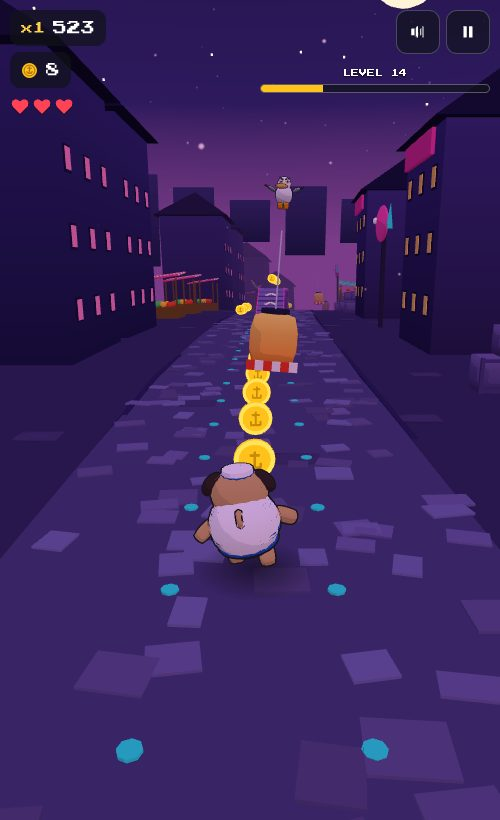
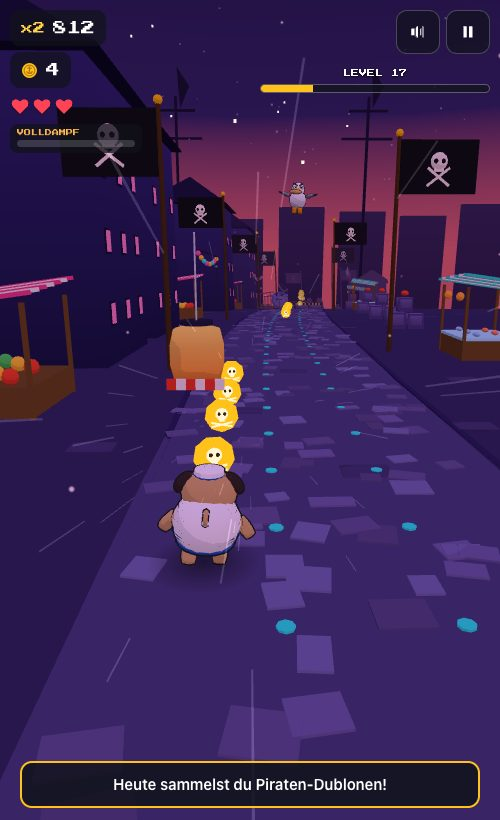
Hafenflitzer: neue Bilder und neuer Text für Szenen und Volldampf

diff --git a/index.html b/index.html
@@ -544,18 +544,18 @@ const SPIELE = [
 
   {
     titel: 'HAFENFLITZER',
-    beschreibung: 'Möwe Gisela hat dein Fischbrötchen geklaut! Renn ihr in echtem 3D hinterher: Weich rollenden Steinkugeln aus, spring über Kisten, rutsch unter Wimpelleinen durch und flieg kurz in der Flug-Badewanne. Jede verrückte Figur springt anders, und neue schaltest du frei, je weiter du kommst.',
-    merkmale: ['3D', '30 Level', '5 Welten', '11 Figuren', '11 Sprünge', 'Dauerlauf', 'Werkstatt', 'Aufträge', '3 Schwierigkeiten', 'Freunde-Rangliste', 'Retro-Sounds'],
+    beschreibung: 'Möwe Gisela hat dein Fischbrötchen geklaut! Renn ihr in echtem 3D hinterher: Vom Hafen über die Palmeninsel bis aufs Piratenschiff: Jedes Level hat seine eigene Stimmung und eigene Schätze zum Sammeln. Weich rollenden Steinkugeln aus, füll die Volldampf-Leiste und zerleg alles, was dir im Weg steht. Jede verrückte Figur springt anders.',
+    merkmale: ['3D', '30 Level', '5 Welten', '11 Figuren', '11 Sprünge', 'Volldampf', 'Dauerlauf', 'Werkstatt', 'Aufträge', '3 Schwierigkeiten', 'Freunde-Rangliste', 'Retro-Sounds'],
     steuerung: 'Handy: nach links, rechts, oben oder unten wischen. Computer: Pfeiltasten oder W, A, S, D, P für Pause, M für Ton.',
     spielen: 'https://moje9328.github.io/hafenflitzer/',
     download: 'https://moje9328.github.io/hafenflitzer/index.html',
     dateiname: 'hafenflitzer.html',
     bilder: [
-      { datei: 'bilder/hafenflitzer-hafen.jpg', text: 'Hafenflitzer: Hein Fiete rennt im Morgenhafen auf die Rampe eines Steinpodests zu' },
-      { datei: 'bilder/hafenflitzer-strand.jpg', text: 'Hafenflitzer: Oma Hilde auf der bunten Strandpromenade, eine große Steinkugel rollt auf sie zu' },
-      { datei: 'bilder/hafenflitzer-markt.jpg', text: 'Hafenflitzer: Rollmops Rudi nachts auf dem Fischmarkt, vor ihm schwingt eine Laterne' },
-      { datei: 'bilder/hafenflitzer-sturm.jpg', text: 'Hafenflitzer: Krabbe Kalle auf dem Sturmschiff, eine Welle rollt über das Deck auf sie zu' },
-      { datei: 'bilder/hafenflitzer-mond.jpg', text: 'Hafenflitzer: Käpt\'n Blorp im Mondhafen, rote Ringe warnen vor Meteoriten' }
+      { datei: 'bilder/hafenflitzer-hafen.jpg', text: 'Hafenflitzer: Piratin Pia sammelt Dublonen im Hafen bei Sonnenuntergang, neben ihr liegt ein Piratenschiff' },
+      { datei: 'bilder/hafenflitzer-strand.jpg', text: 'Hafenflitzer: Oma Hilde am Strand vor einem großen Sonnenuntergang, eine Steinkugel rollt auf sie zu' },
+      { datei: 'bilder/hafenflitzer-markt.jpg', text: 'Hafenflitzer: Rollmops Rudi nachts auf dem Fischmarkt unter Piratenflaggen, vor ihm schwingt eine Laterne' },
+      { datei: 'bilder/hafenflitzer-sturm.jpg', text: 'Hafenflitzer: Krabbe Kalle auf dem Piratenschiff unter rotem Himmel, Rubine und eine Welle kommen auf sie zu' },
+      { datei: 'bilder/hafenflitzer-mond.jpg', text: 'Hafenflitzer: Käpt\'n Blorp sammelt Schatztruhen im Mondhafen, dahinter schweben Weltraum-Piratenschiffe' }
     ]
   },
 
